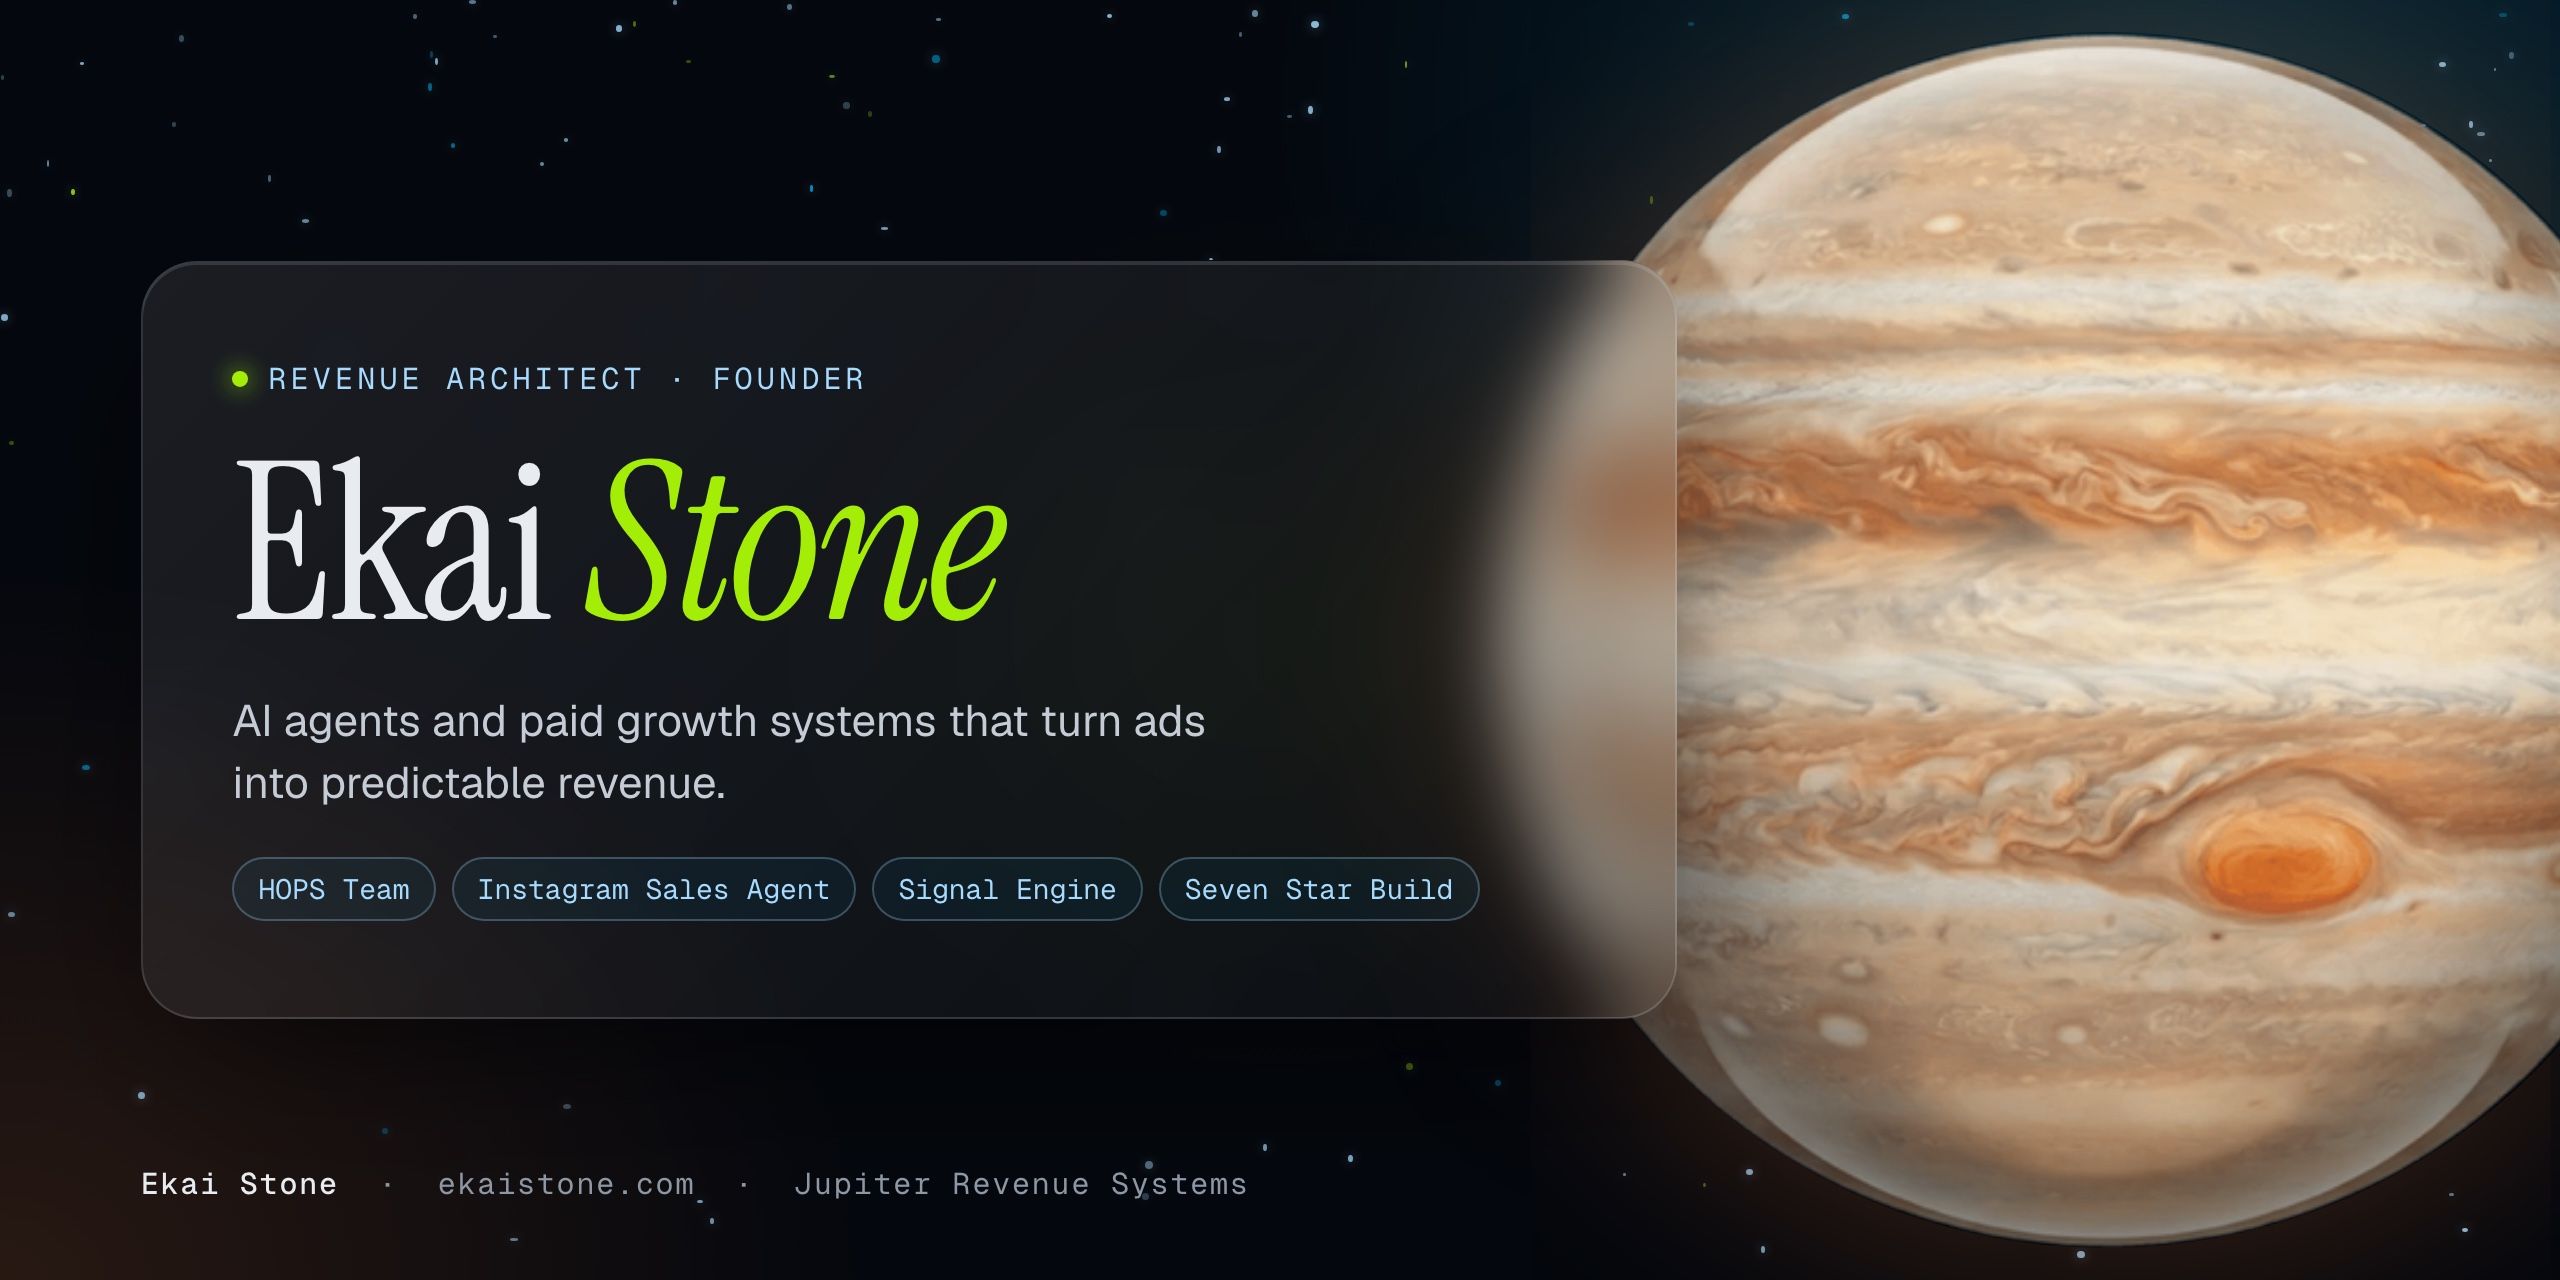
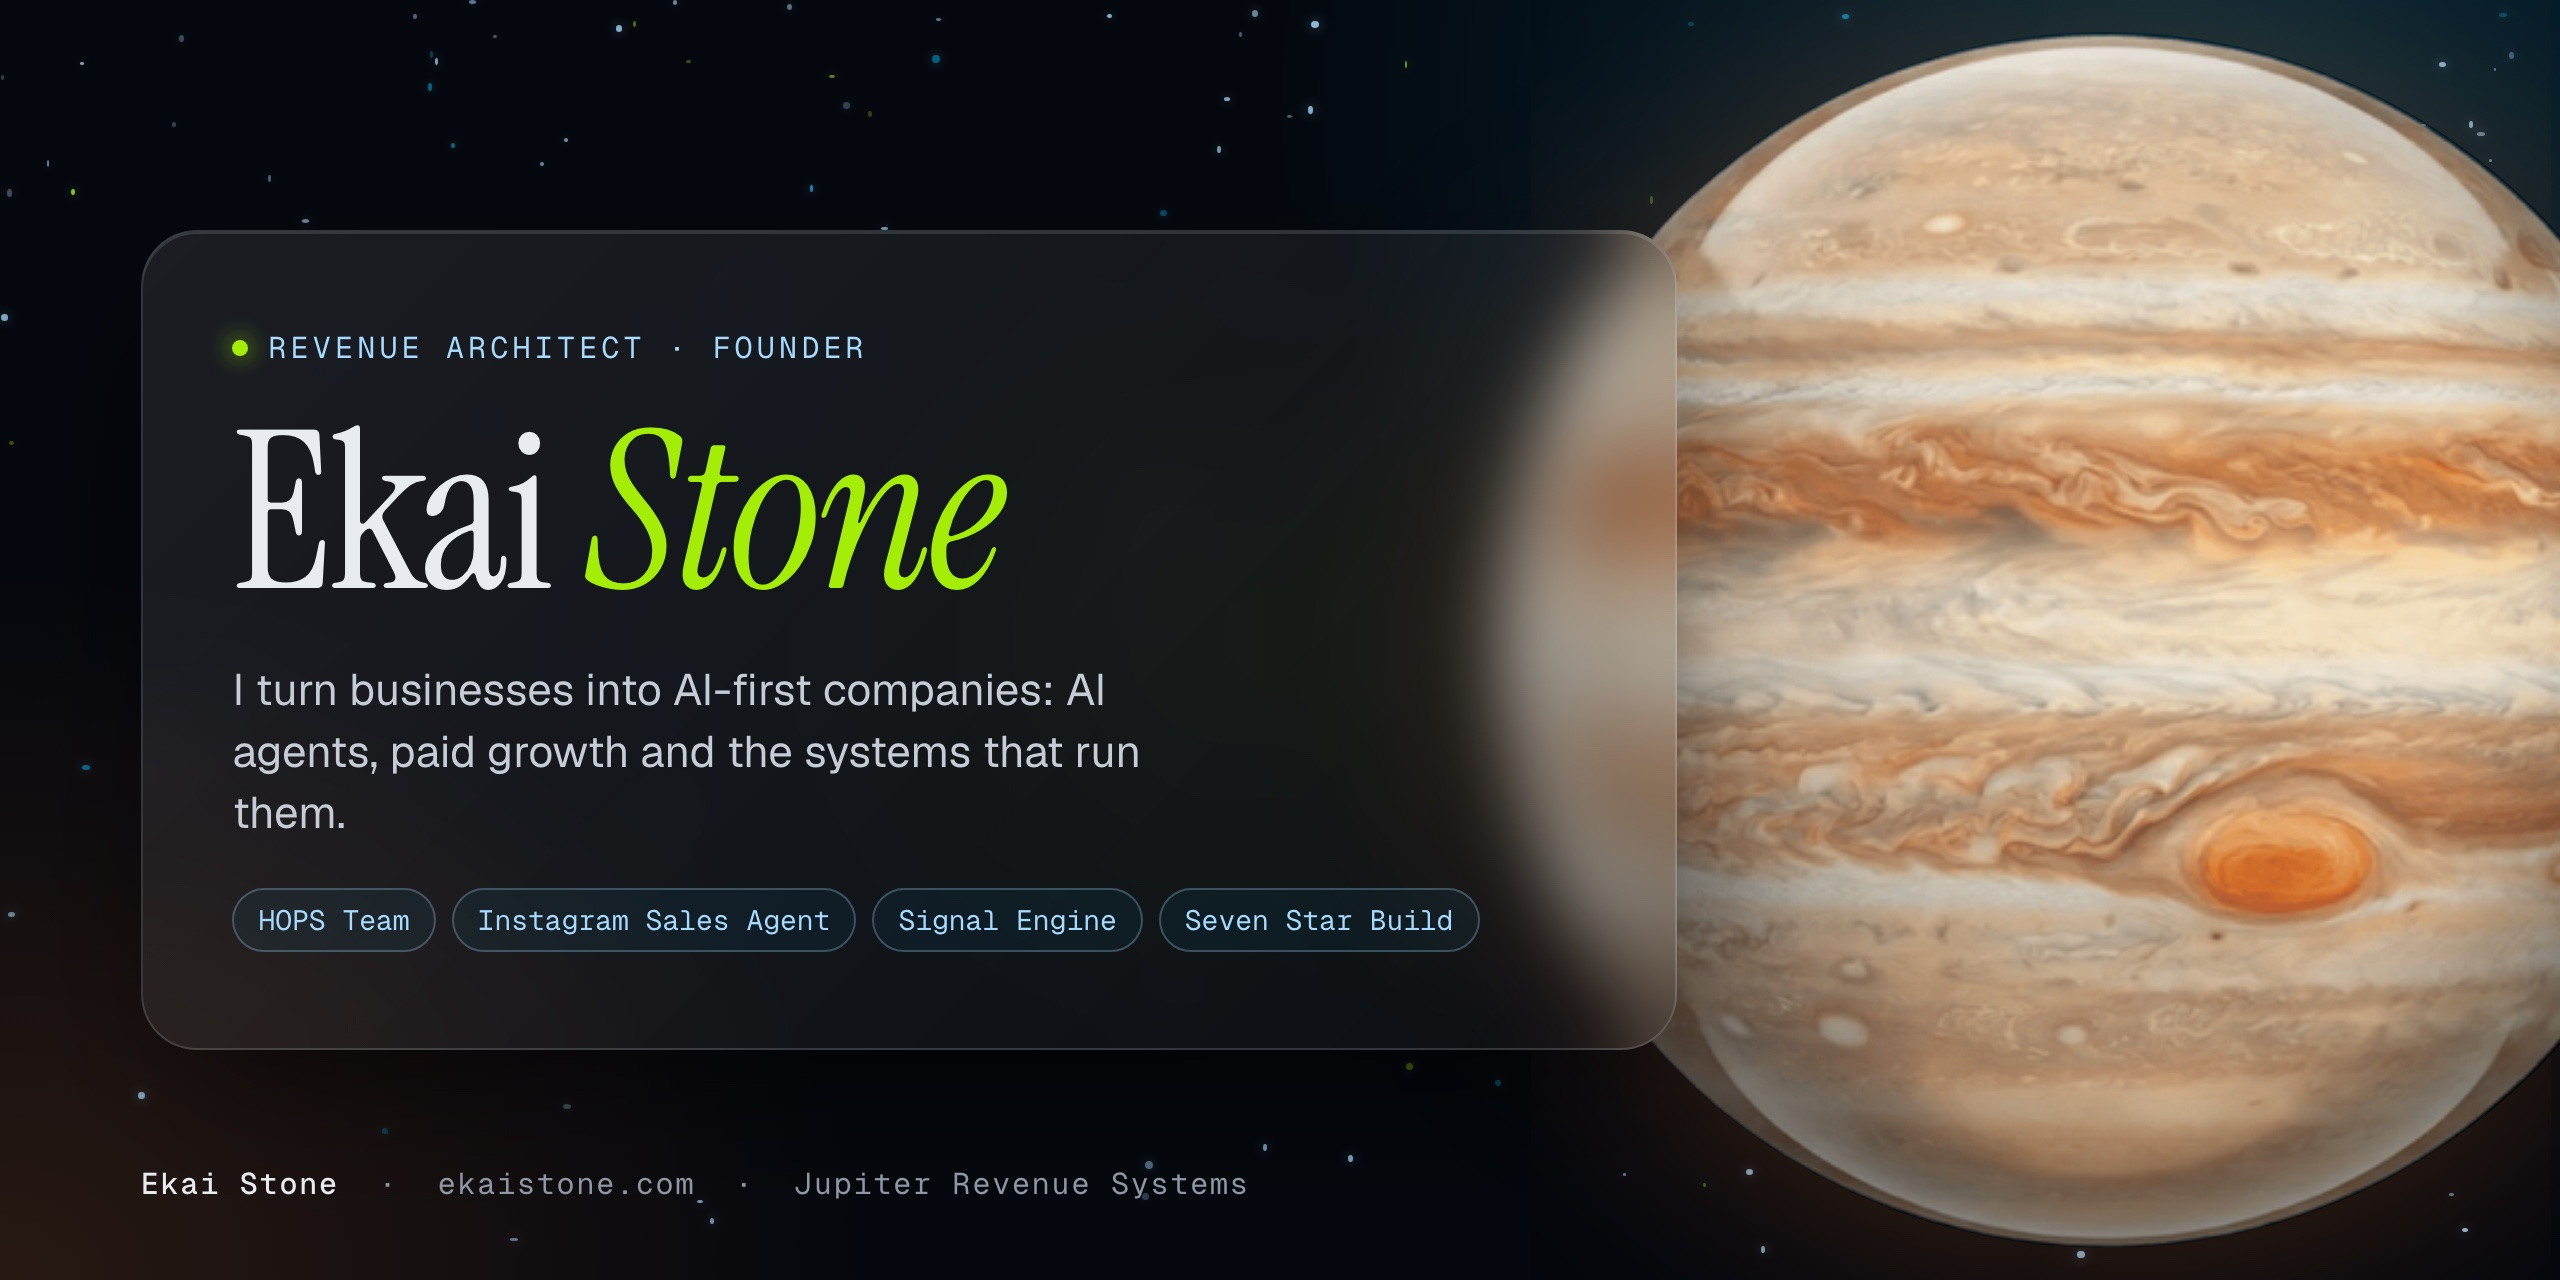
AI-first company positioning

diff --git a/README.md b/README.md
@@ -43,7 +43,7 @@ Install these 6 AI agents tonight and they'll run your content, support and ads 
 | **[The HOPS Team](https://github.com/jupiter-revenue-systems/hops-team)** | 6 plug-in AI agents that run your content, blog, site, support and ads in your voice. Works with Claude. | **$37** · [Get it](https://ekaistone.com/hops) |
 | **[Instagram Sales Agent](https://github.com/jupiter-revenue-systems/instagram-sales-agent)** | Your own AI sales agent in your Instagram DMs. It answers, qualifies and books in your voice, and you give it a name. Runs on ARIA. | **From $27** · [Get it](https://ekaistone.com/ig-sales-agent) |
 | **[Signal Engine](https://github.com/jupiter-revenue-systems/signal-engine)** | Pixel plus Conversions API with shared event IDs, so Meta counts every sale once. Ships inside every Seven Star Build. | **Licensed** · [Apply](https://ekaistone.com/seven-star/apply) |
-| **[The Seven Star Build](https://github.com/jupiter-revenue-systems/seven-star-build)** | Your whole business, rebuilt around AI agents, on accounts you own. For telehealth clinics, coaches, consultants, creators and agency owners. Live in 7 days. | **From $15,000** · [See the Build](https://ekaistone.com/seven-star/build) |
+| **[The Seven Star Build](https://github.com/jupiter-revenue-systems/seven-star-build)** | Turn your business into an AI-first company, on accounts you own. For telehealth clinics, coaches, consultants, creators and agency owners. Live in 7 days. | **From $15,000** · [See the Build](https://ekaistone.com/seven-star/build) |
 
 > **ARIA and the Signal Engine are proprietary Jupiter Revenue Systems engines.** They're licensed inside every build, never published as source. Paid repositories are private to buyers; each one has a public page here with everything it does and how to get access.
 
